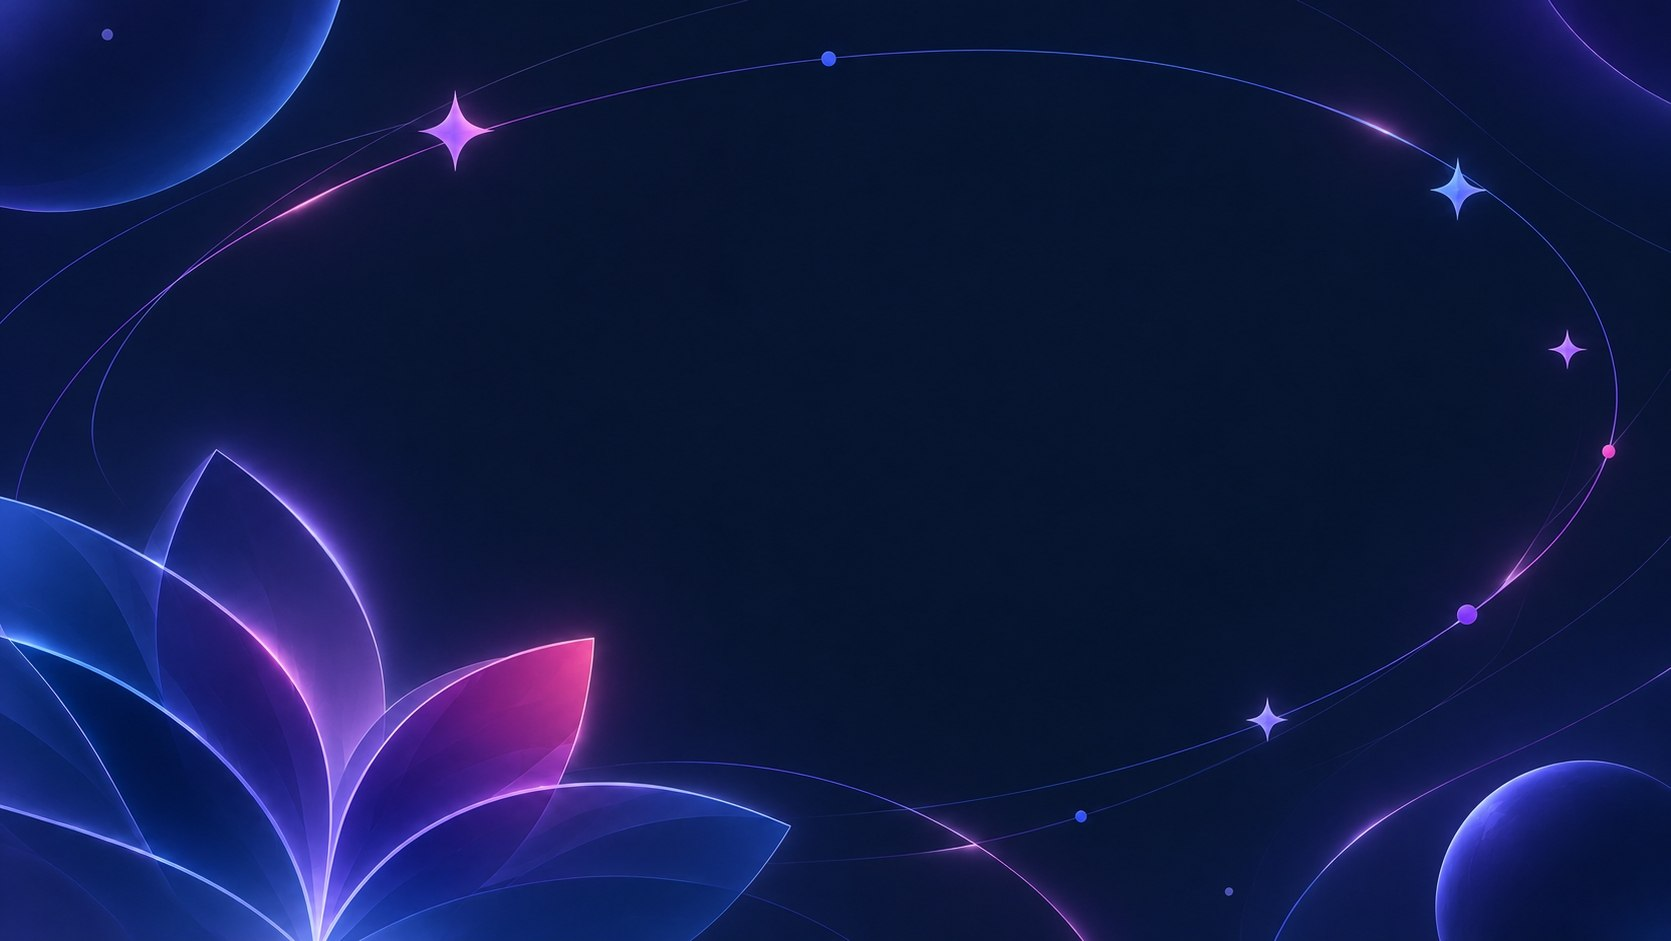
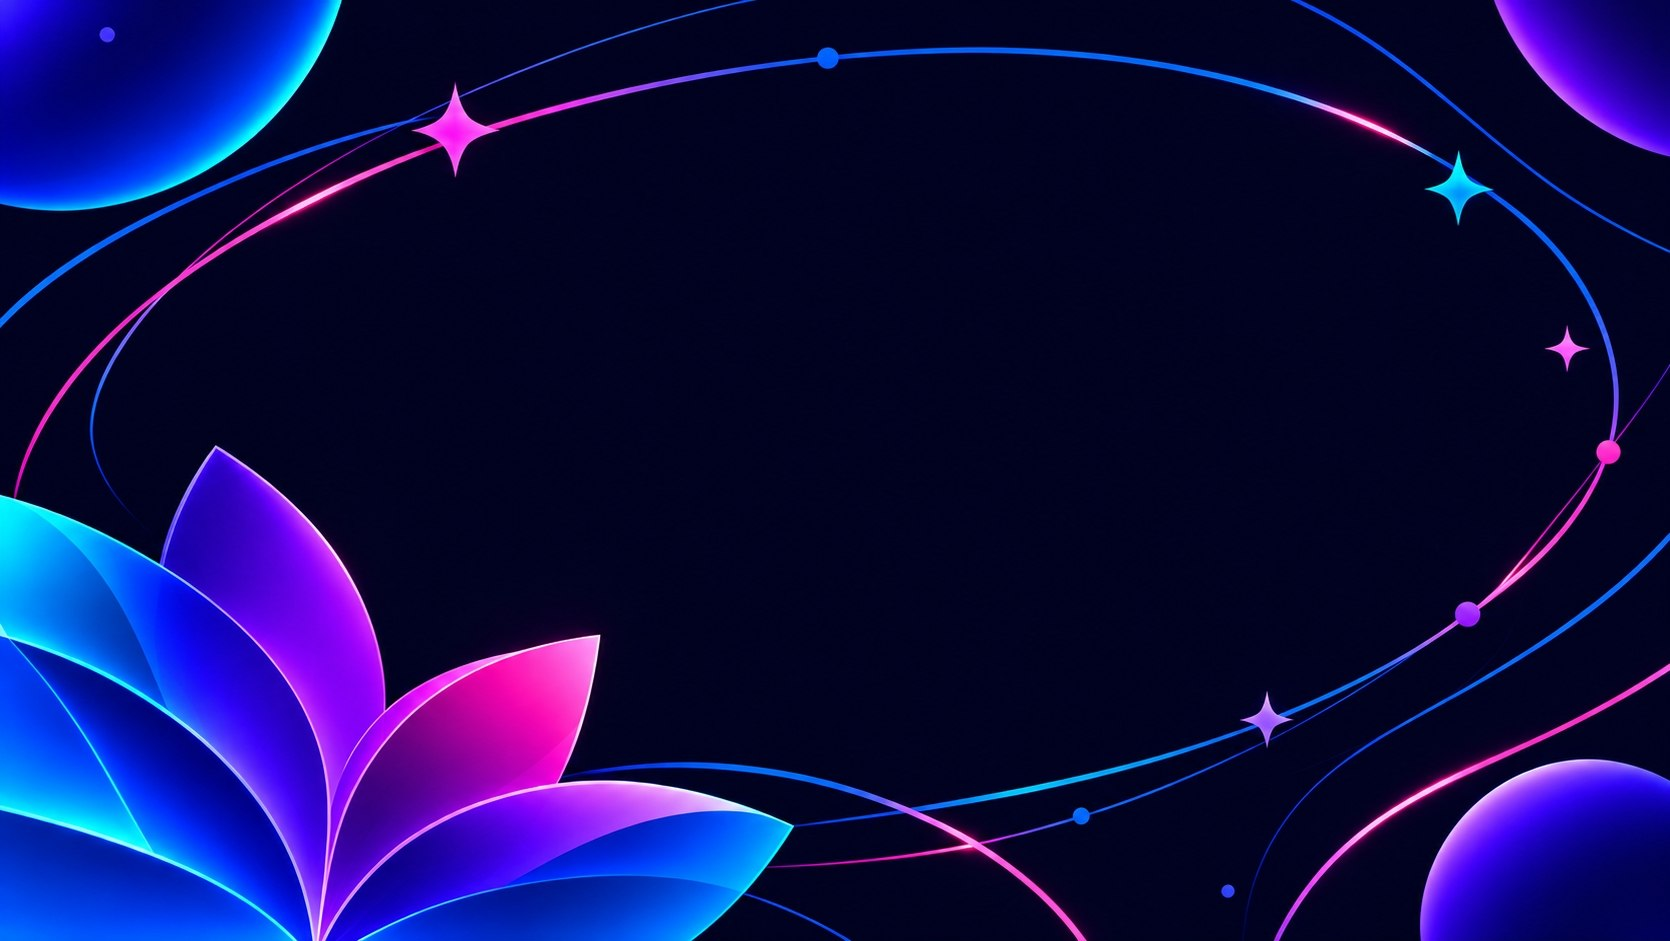
datelles del fondo en tema oscuro

diff --git a/frontend/src/pages/LoginPage.tsx b/frontend/src/pages/LoginPage.tsx
@@ -40,7 +40,12 @@ export default function LoginPage() {
       }
     } catch (err: any) {
       console.error(err);
-      setError(err.response?.data?.detail || 'Usuario o contraseña incorrectos.');
+      // Si el backend devuelve 401 o 404, el usuario no existe o está borrado
+      if (err.response?.status === 401 || err.response?.status === 404) {
+        setError('Usuario o contraseña incorrectos. Si tu cuenta fue eliminada, contacta al administrador.');
+      } else {
+        setError(err.response?.data?.detail || 'Ocurrió un error al iniciar sesión. Intenta de nuevo.');
+      }
     } finally {
       setLoading(false);
     }

diff --git a/frontend/index.html b/frontend/index.html
@@ -4,6 +4,7 @@
     <meta charset="UTF-8" />
     <link rel="icon" type="image/svg+xml" href="/vite.svg" />
     <meta name="viewport" content="width=device-width, initial-scale=1.0" />
+    <link href="https://fonts.googleapis.com/css2?family=Dancing+Script:wght@600;700&display=swap" rel="stylesheet">
     <title>LYRA - Gestión Escolar</title>
   </head>
   <body>
